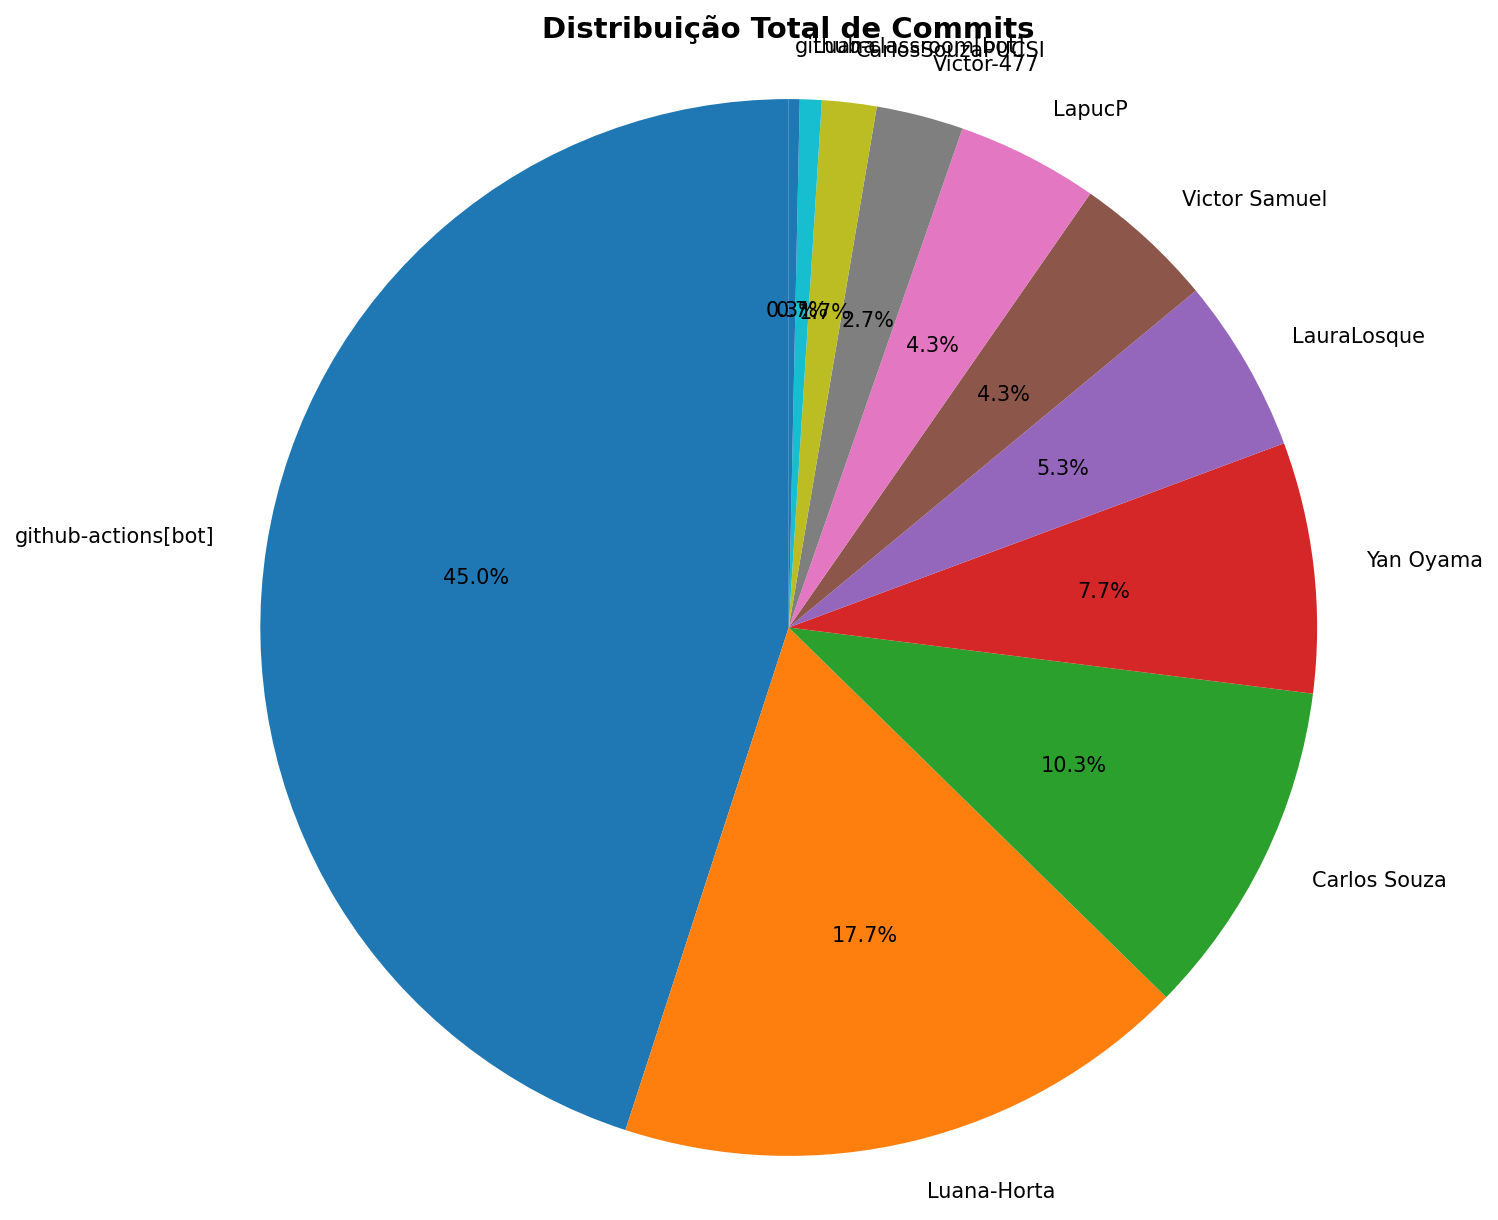
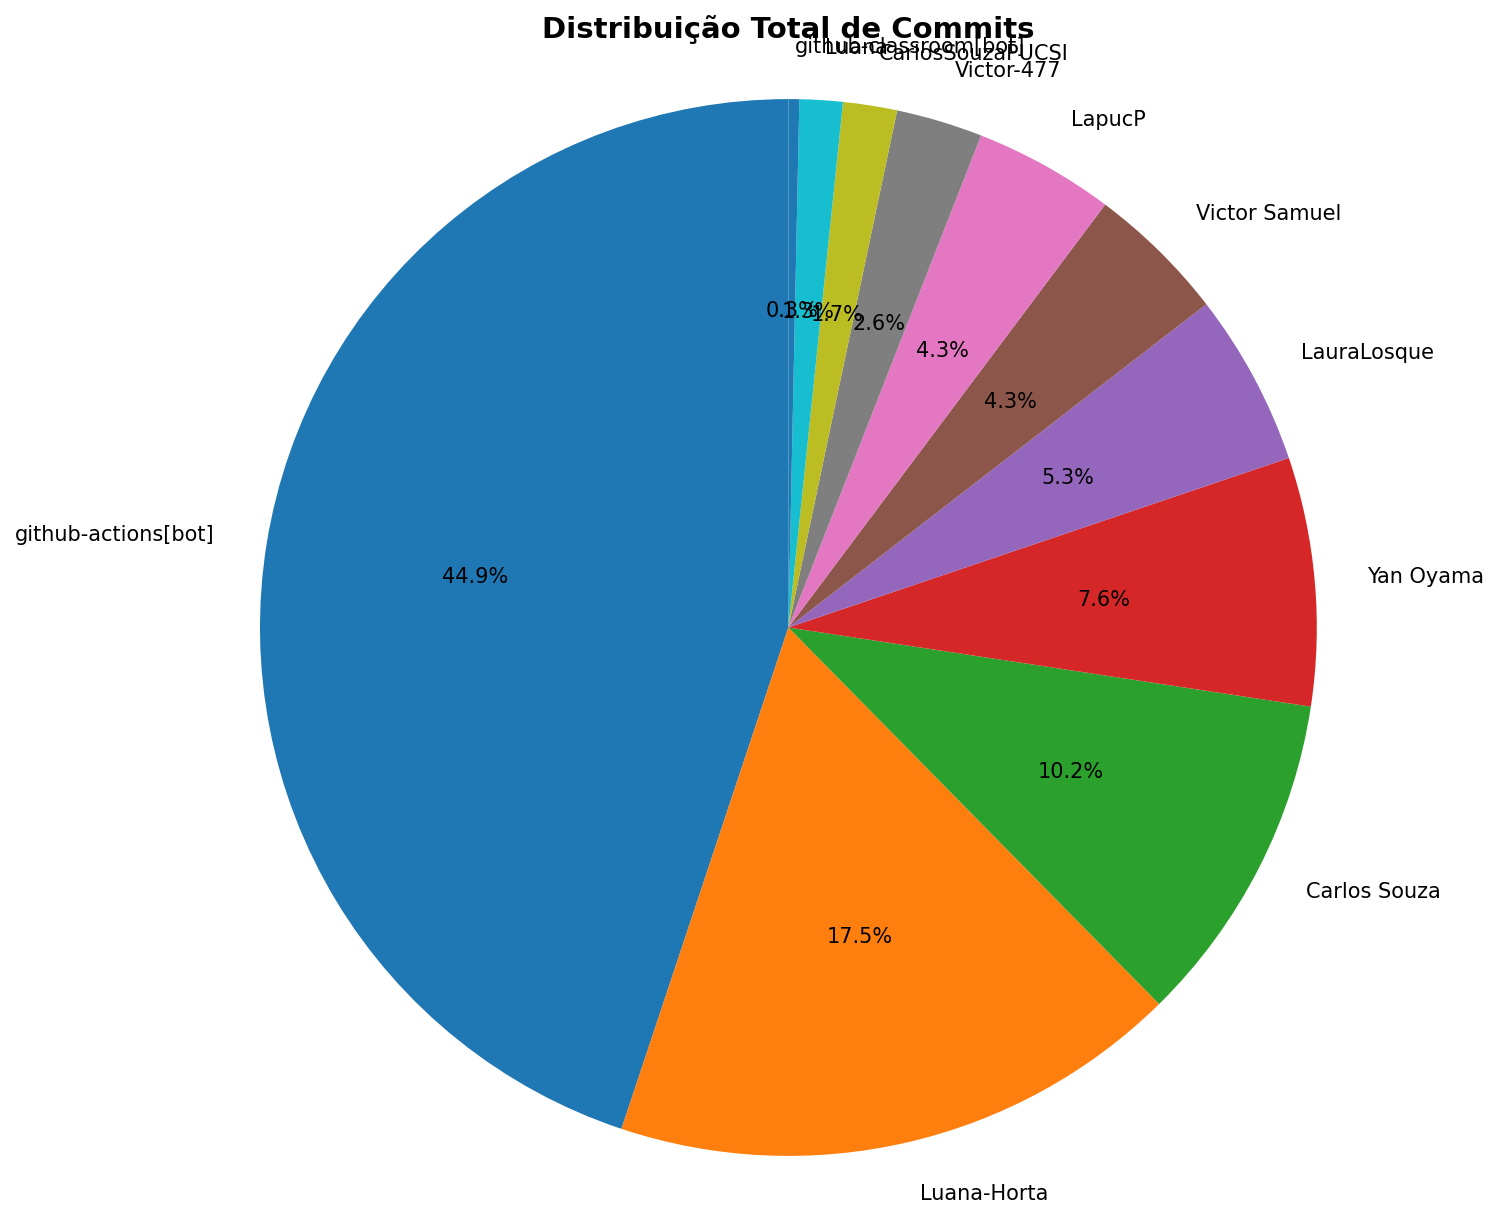
📊 Atualizar relatório de contribuições [skip ci]

diff --git a/docs/CONTRIBUTION_REPORT.md b/docs/CONTRIBUTION_REPORT.md
@@ -1,6 +1,6 @@
 # 📊 Relatório de Contribuições do Projeto
 
-**Última atualização:** 10/05/2026 13:37
+**Última atualização:** 10/05/2026 13:55
 
 ---
 
@@ -12,18 +12,18 @@
 | CarlosSouzaPUCSI      |         5 |        13 |        13 |          4 |              5 |               4 |
 | LapucP                |        13 |       461 |       137 |          4 |             12 |               3 |
 | LauraLosque           |        16 |       439 |        31 |          8 |             12 |               3 |
-| Luana                 |         2 |     10850 |         0 |        266 |              0 |               0 |
+| Luana                 |         4 |     10854 |        59 |        266 |              0 |               0 |
 | Luana-Horta           |        53 |       473 |       153 |          6 |             53 |               6 |
 | Victor Samuel         |        13 |       419 |        57 |         11 |             12 |               3 |
 | Victor-477            |         8 |     24872 |     10453 |        787 |              0 |               0 |
 | Yan Oyama             |        23 |       308 |        73 |         12 |             15 |               3 |
-| github-actions[bot]   |       135 |       720 |       705 |          3 |            135 |               1 |
+| github-actions[bot]   |       136 |       724 |       709 |          3 |            136 |               1 |
 | github-classroom[bot] |         1 |      2152 |         0 |         45 |              1 |              13 |
 
 
 ## 📅 Contribuições Semanais (Todo o Semestre)
 
-**2026-05-03**: Carlos Souza: 1, Luana: 1, Luana-Horta: 3, Victor Samuel: 3, Victor-477: 8, github-actions[bot]: 14
+**2026-05-03**: Carlos Souza: 1, Luana: 3, Luana-Horta: 3, Victor Samuel: 3, Victor-477: 8, github-actions[bot]: 15
 
 **2026-04-26**: Luana-Horta: 6, github-actions[bot]: 6
 
